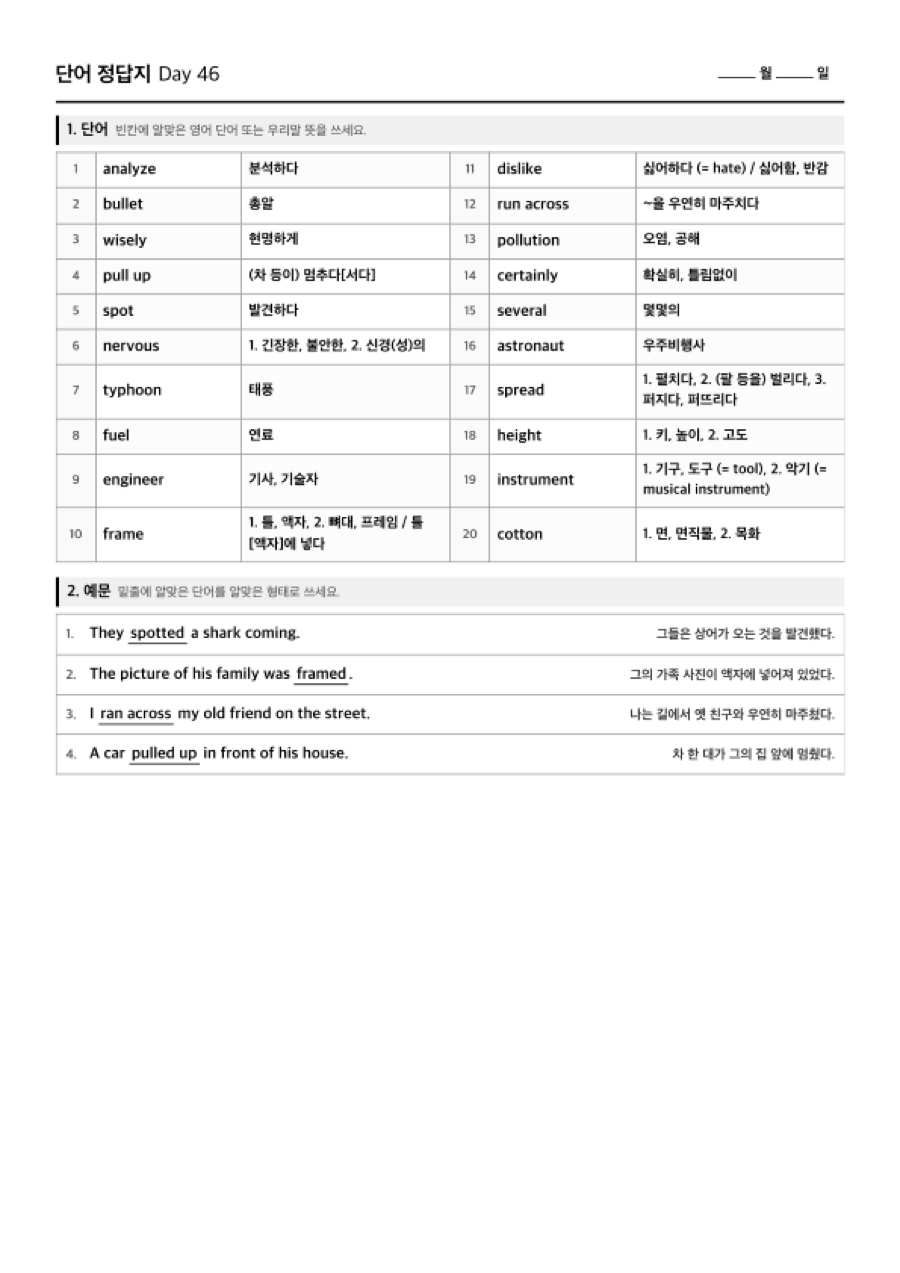
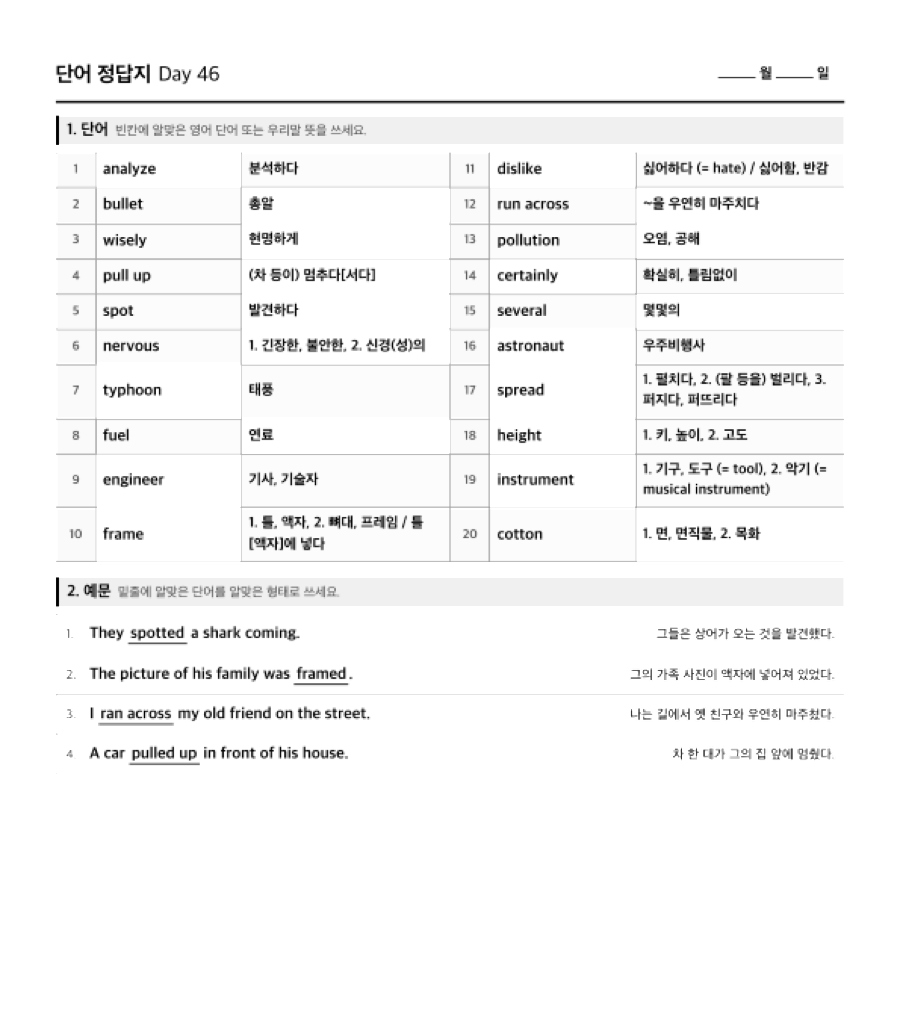
Trim blank space below the sample output pages
Also flatten the renders onto white. They came out of the PDF with a
transparent background, which would have left black text unreadable on
GitHub's dark theme.

Changed region(s): [[0.0622, 0.0306, 0.9333, 0.7643]]

diff --git a/README.md b/README.md
@@ -25,8 +25,8 @@ all. (English headwords are masked in these samples.)
 You get a clean Markdown word list, and from that, a test paper and answer key:
 
 <p>
-  <img src="docs/output-test.png" height="470" alt="Generated test paper">
-  <img src="docs/output-answer.png" height="470" alt="Generated answer key">
+  <img src="docs/output-test.png" height="440" alt="Generated test paper">
+  <img src="docs/output-answer.png" height="440" alt="Generated answer key">
 </p>
 
 ## Install
